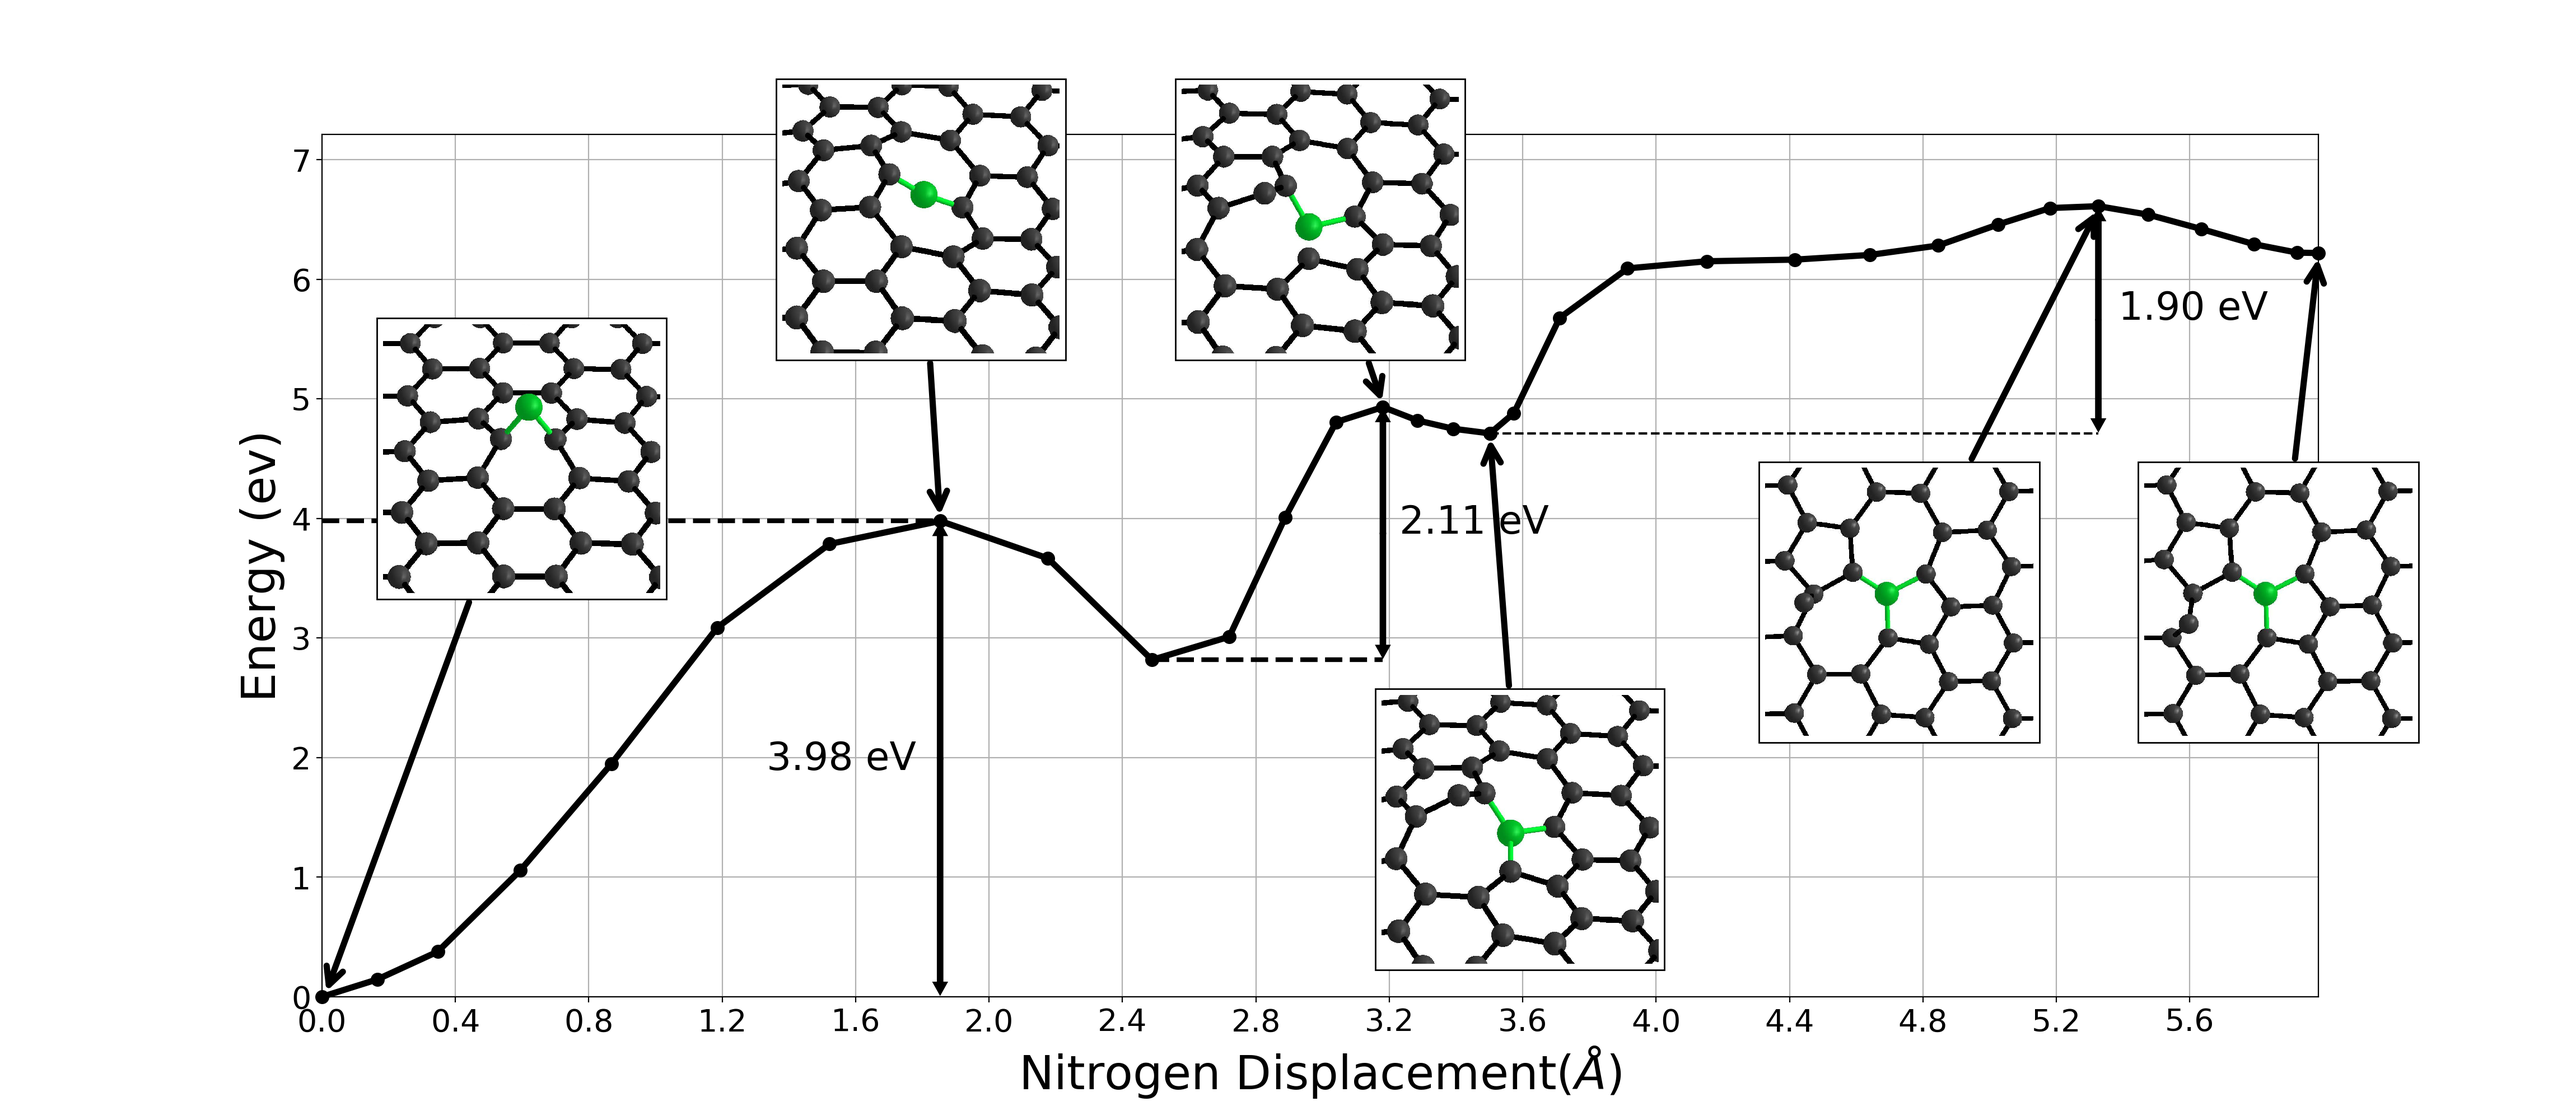
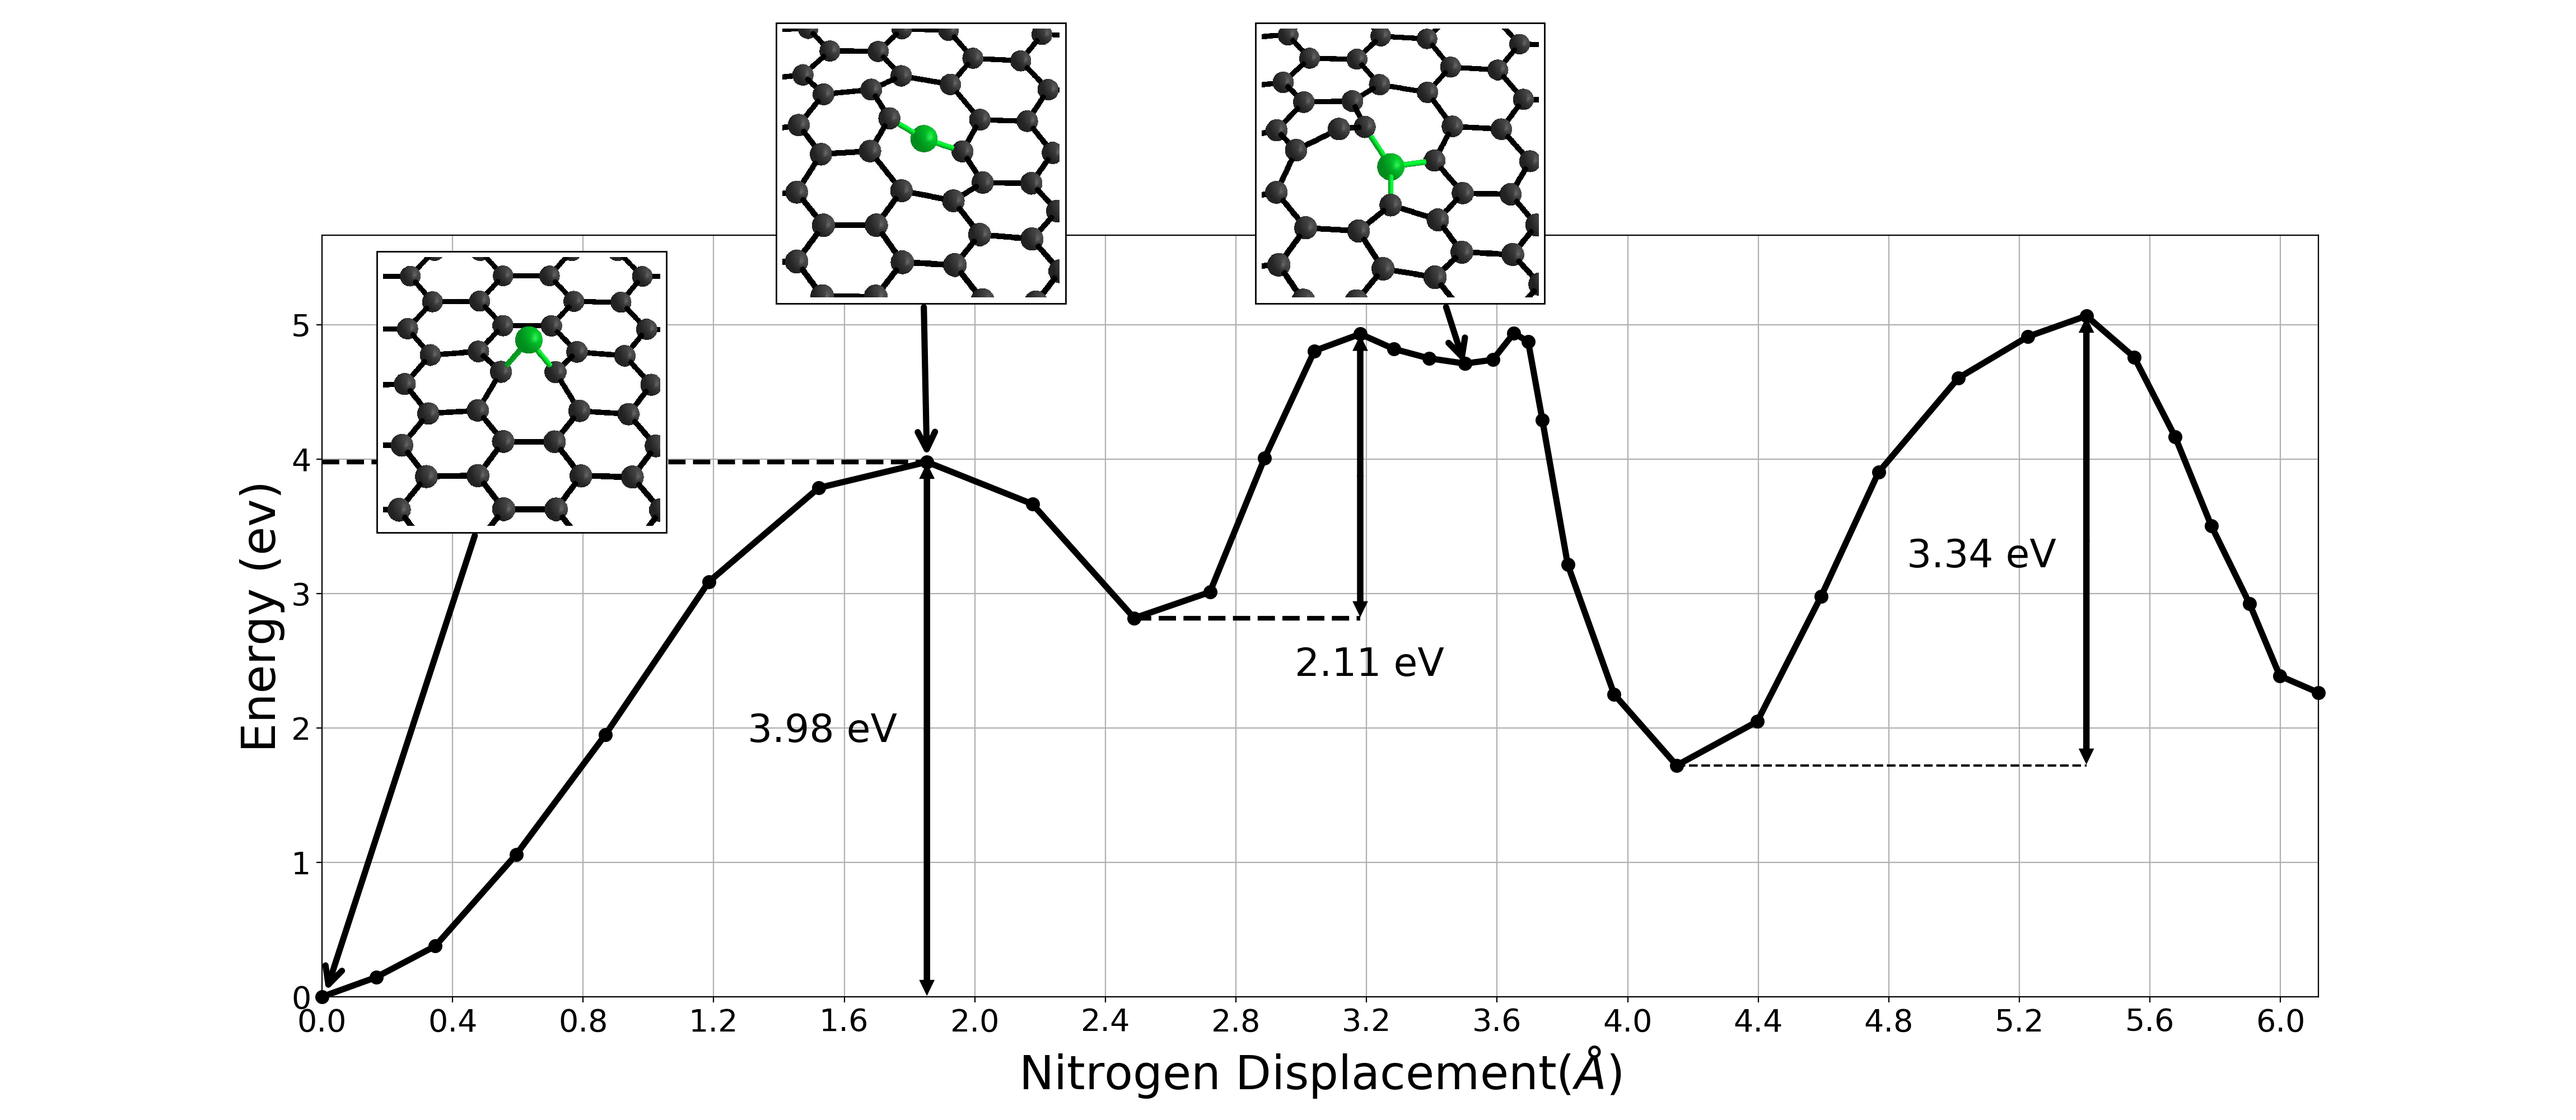
small adjustments to stonewales, manque des images

diff --git a/figures/stonewales/figure_sw.py b/figures/stonewales/figure_sw.py
@@ -27,19 +27,20 @@ ax.plot(distances1, reaction1, "-ok", linewidth=4, clip_on=False, markersize=8)
 ax.plot(distances2, reaction2, "-ok", linewidth=4, clip_on=False, markersize=8)
 ax.grid(True)
 ax.set_axisbelow(True)
+plt.subplots_adjust(top=0.79)
 
 max1 = np.argmax(reaction1[:10])
 min1 = 9
 max2 = np.argmax(reaction1)
-min2 = 16
+min2 = np.argmin(reaction2)
 max3 = np.argmax(reaction2)
 
 h1 = (reaction1[max2] - reaction1[min1]) / 2 + reaction1[min1]
-h2 = (reaction2[max3] - reaction2[0]) / 2 + reaction2[0]
+h2 = (reaction2[max3] - reaction2[min2]) / 2 + reaction2[min2]
 
 ax.plot([distances1[0], distances1[max1]], [reaction1[max1], reaction1[max1]], "--k", linewidth=3)
 ax.plot([distances1[min1], distances1[max2]], [reaction1[min1], reaction1[min1]], "--k", linewidth=3)
-ax.plot([distances2[0], distances2[max3]], [reaction2[0], reaction2[0]], "--k")
+ax.plot([distances2[min2], distances2[max3]], [reaction2[min2], reaction2[min2]], "--k")
 ax.arrow(
     distances1[max1],
     reaction1[max1] / 2,
@@ -108,27 +109,27 @@ ax.arrow(
 )
 
 ax.text(
-    distances1[max1] - 0.52,
+    distances1[max1] - 0.55,
     reaction1[max1] / 2.1,
     "{:4.2f} eV".format(reaction1[max1]),
     fontsize=25,
 )
 ax.text(
-    distances1[max2] + 0.05,
-    h1,
+    distances1[max2] - 0.2,
+    distances1[min1] - 0.1,
     "{:4.2f} eV".format(reaction1[max2] - reaction1[min1]),
     fontsize=25,
 )
 ax.text(
-    distances2[max3] + 0.06,
-    h2,
-    "{:4.2f} eV".format(reaction2[max3] - reaction2[0]),
+    distances2[max3] - 0.55,
+    h2-0.2,
+    "{:4.2f} eV".format(reaction2[max3] - reaction2[min2]),
     fontsize=25,
 )
 
 image1 = Image.open("posinp1.jpg")
 image2 = Image.open("posinp8.jpg")
-image3 = Image.open("posinp14.jpg")
+#image3 = Image.open("posinp14.jpg")
 image4 = Image.open("posinp17.jpg")
 image5 = Image.open("posinp27.jpg")
 image6 = Image.open("posinp32.jpg")
@@ -137,14 +138,14 @@ zoom = 0.19
 zoom2 = 0.22
 imagebox1 = OffsetImage(image1, zoom=zoom)
 imagebox2 = OffsetImage(image2, zoom=zoom)
-imagebox3 = OffsetImage(image3, zoom=zoom)
+#imagebox3 = OffsetImage(image3, zoom=zoom)
 imagebox4 = OffsetImage(image4, zoom=zoom)
 imagebox5 = OffsetImage(image5, zoom=zoom2)
 imagebox6 = OffsetImage(image6, zoom=zoom2)
 
 imagebox1.image.axes = ax
 imagebox2.image.axes = ax
-imagebox3.image.axes = ax
+#imagebox3.image.axes = ax
 imagebox4.image.axes = ax
 imagebox5.image.axes = ax
 imagebox6.image.axes = ax
@@ -158,19 +159,19 @@ ab1 = AnnotationBbox(
 ab2 = AnnotationBbox(
     imagebox2,
     [distances1[max1], reaction1[max1] + 0.02],
-    xybox=[0.30 * distances2[-1], 6.5],
+    xybox=[0.30 * distances2[-1], 6.2],
     arrowprops=dict(arrowstyle="->", linewidth=4),
 )
-ab3 = AnnotationBbox(
-    imagebox3,
-    [distances1[max2], reaction1[max2] + 0.02],
-    xybox=[0.5 * distances2[-1], 6.5],
-    arrowprops=dict(arrowstyle="->", linewidth=4),
-)
+#ab3 = AnnotationBbox(
+#    imagebox3,
+#    [distances1[max2], reaction1[max2] + 0.02],
+#    xybox=[0.5 * distances2[-1], 6.1],
+#    arrowprops=dict(arrowstyle="->", linewidth=4),
+#)
 ab4 = AnnotationBbox(
     imagebox4,
     [distances1[-1], reaction1[-1] - 0.02],
-    xybox=[0.60 * distances2[-1], 1.4],
+    xybox=[0.54 * distances2[-1], 6.2],
     arrowprops=dict(arrowstyle="->", linewidth=4),
 )
 ab5 = AnnotationBbox(
@@ -188,11 +189,11 @@ ab6 = AnnotationBbox(
 
 ax.add_artist(ab1)
 ax.add_artist(ab2)
-ax.add_artist(ab3)
-#ax.add_artist(ab4)
+#ax.add_artist(ab3)
+ax.add_artist(ab4)
 #ax.add_artist(ab5)
 #ax.add_artist(ab6)
 
 # Show or save figure
-plt.show()
-#plt.savefig('stonewales', dpi = 200)
+#plt.show()
+plt.savefig('stonewales', dpi = 200)
